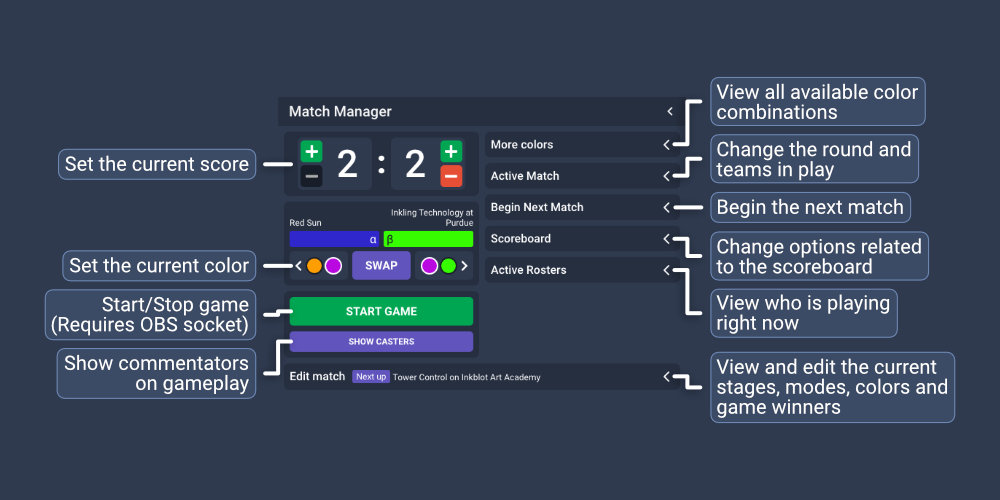
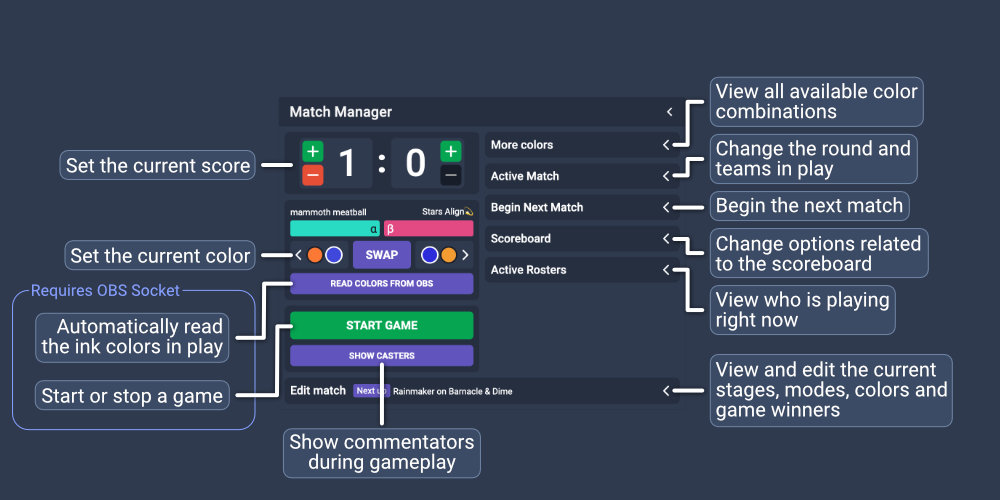
Add information about the screenshot parser to docs

diff --git a/docs/users-guide.md b/docs/users-guide.md
@@ -33,7 +33,7 @@ Install ipl-overlay-controls in NCGMGR by clicking the "Plus" icon in the bundle
 
 ## Configuration
 
-### Setting authentication keys
+### Creating the configuration file
 
 For some features of ipl-overlay-controls to function properly, some configuration parameters must be set.  
 To start, create the configuration file at `<nodecg>/cfg/ipl-overlay-controls.json`
@@ -41,12 +41,15 @@ A complete configuration file contains the following parameters:
 
 ```json
 {
+  "screenshotParser": {
+    "saveBadScreenshotsToDisk": false
+  },
   "lastfm": {
     "apiKey": "Your last.fm API key",
     "secret": "Your last.fm API secret"
   },
   "smashgg": {
-    "apiKey": "Your smash.gg API key"
+    "apiKey": "Your start.gg API key"
   },
   "radia": {
     "url": "https://radia-production",
@@ -59,7 +62,7 @@ A complete configuration file contains the following parameters:
 }
 ```
 
-Any configuration parameters may be omitted from the file, but functionality will be missing if that is done.
+Any configuration parameters may be omitted from the file.
 
 ### Settings in the dashboard
 
@@ -185,13 +188,16 @@ match to play.
 
 ### Managing ink colors
 
-When a game starts, use the "More colors" section of the Match Manager panel to pick the colors in play.  
+When a game starts, use the "Read colors from OBS" button to attempt to automatically determine the ink colors in play. 
+Press the button after the game UI is fully visible, but before the match timer has started. [Photo reference](img/screenshot-parser-timing-reference.webp)  
+If the OBS socket is not in use or is unable to parse the ink colors, use the "More Colors" section of the Match Manager 
+panel to pick the colors in play. 
+
 On the left side of the dashboard panel, a preview of the colors in play is shown. The colors may be swapped if they are
 incorrect for the current match.  
 The color for the "Alpha" team in-game is designated by the "α" symbol and the color for the "Bravo" team in-game is designated by the "β" symbol.  
 The left side of the dashboard can be used to switch to the previous and next color in the sequence of colors. When each
-game is played  in the same private battle room, the colors follow a predictable order, which is followed by the dashboard. 
-(Although, please note that ranked modes and turf war have separate sets of ink colors)
+game is played in the same private battle room, the colors follow a predictable order, which is followed by the dashboard. 
 
 ### Showing and hiding the scoreboard
 

diff --git a/docs/development.md b/docs/development.md
@@ -27,6 +27,11 @@ By default, bundles are marked as compatible with Splatoon 2.
 To define a different set of compatible games for your bundle, add the following to your bundle's `package.json` file:  
 `"compatibleGameVersions": ["SPLATOON_2", "SPLATOON_3"]`
 
+## Debugging the screenshot parser
+
+By setting `screenshotParser.saveBadScreenshotsToDisk` to `true` in the bundle configuration file (`<nodecg>/cfg/ipl-overlay-controls.json`), 
+ipl-overlay-controls will save to disk screenshots that it failed to read ink colors from.
+
 ## Team data
 
 ipl-overlay-controls supports importing team data from smash.gg and Battlefy.  
